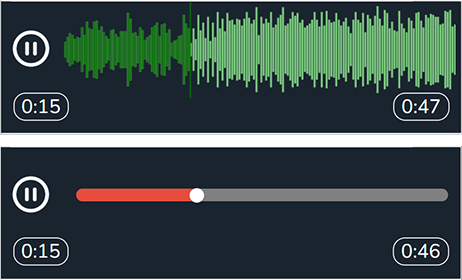
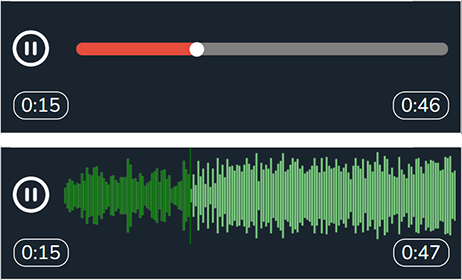
player description localization

diff --git a/data/root_/htmls/profile.html b/data/root_/htmls/profile.html
@@ -128,11 +128,12 @@
 						</span>
 					</div>
 					<div class="settings_element">
-						<span>Player:
+						<span>${LANG.player}:
 							<span style="cursor: help;" class="tooltip">
 								❓
 								<div class="tooltip-body">
-									<img width="300px" src="/root_/images/players_preview.png">
+									<img width="300px" src="/root_/images/players_preview.png" style="margin-bottom: 6px;">
+									${LANG.player_tooltip}
 								</div>
 							</span>
 						</span>
@@ -141,8 +142,8 @@
 								<input class="select__input" type="hidden" name="player" onchange="changeSettings(this)">
 								<div class="select__head">${LANG.select}</div>
 								<ul class="select__list">
-									<li class="select__item" value="wavesurfer">Wavesurfer</li>
-									<li class="select__item" value="simple">Simple</li>
+									<li class="select__item" value="simple">${LANG.player_simple}</li>
+									<li class="select__item" value="wavesurfer">${LANG.player_wave}</li>
 								</ul>
 							</div>
 						</span>

diff --git a/data/root_/htmls/header_index.html b/data/root_/htmls/header_index.html
@@ -44,7 +44,7 @@
 				</li>
 				<li submenu="player">
 					<i class="fa-solid fa-circle-play"></i>
-					Player
+					${LANG.player}
 				</li>
 				<li submenu="hard_anim">
 					<i class="fa-solid fa-microchip"></i>
@@ -83,13 +83,13 @@
 			<ul class="submenu" name="player">
 				<li class="menu_title">
 					<i class="fa-solid fa-circle-play"></i>
-					Player:
-				</li>
-				<li value="wavesurfer">
-					Wavesurfer
+					${LANG.player}:
 				</li>
 				<li value="simple">
-					Simple
+					${LANG.player_simple}
+				</li>
+				<li value="wavesurfer">
+					${LANG.player_wave}
 				</li>
 			</ul>
 

diff --git a/data/root_/styles/profile.css b/data/root_/styles/profile.css
@@ -1425,10 +1425,15 @@ details[open] > summary:before {
 	min-height: 100px;
 	z-index: 10;
 	background: var(--body-color);
-	padding: 5px;
+	padding: 10px;
 	border-radius: 5px;
 	box-shadow: 0 0 1px;
 	transition: 0.25s;
+	text-align: left;
+}
+.tooltip .tooltip-body hr{
+	margin-top: 10px;
+	margin-bottom: 10px;
 }
 .tooltip:hover .tooltip-body{
 	opacity: 1;
